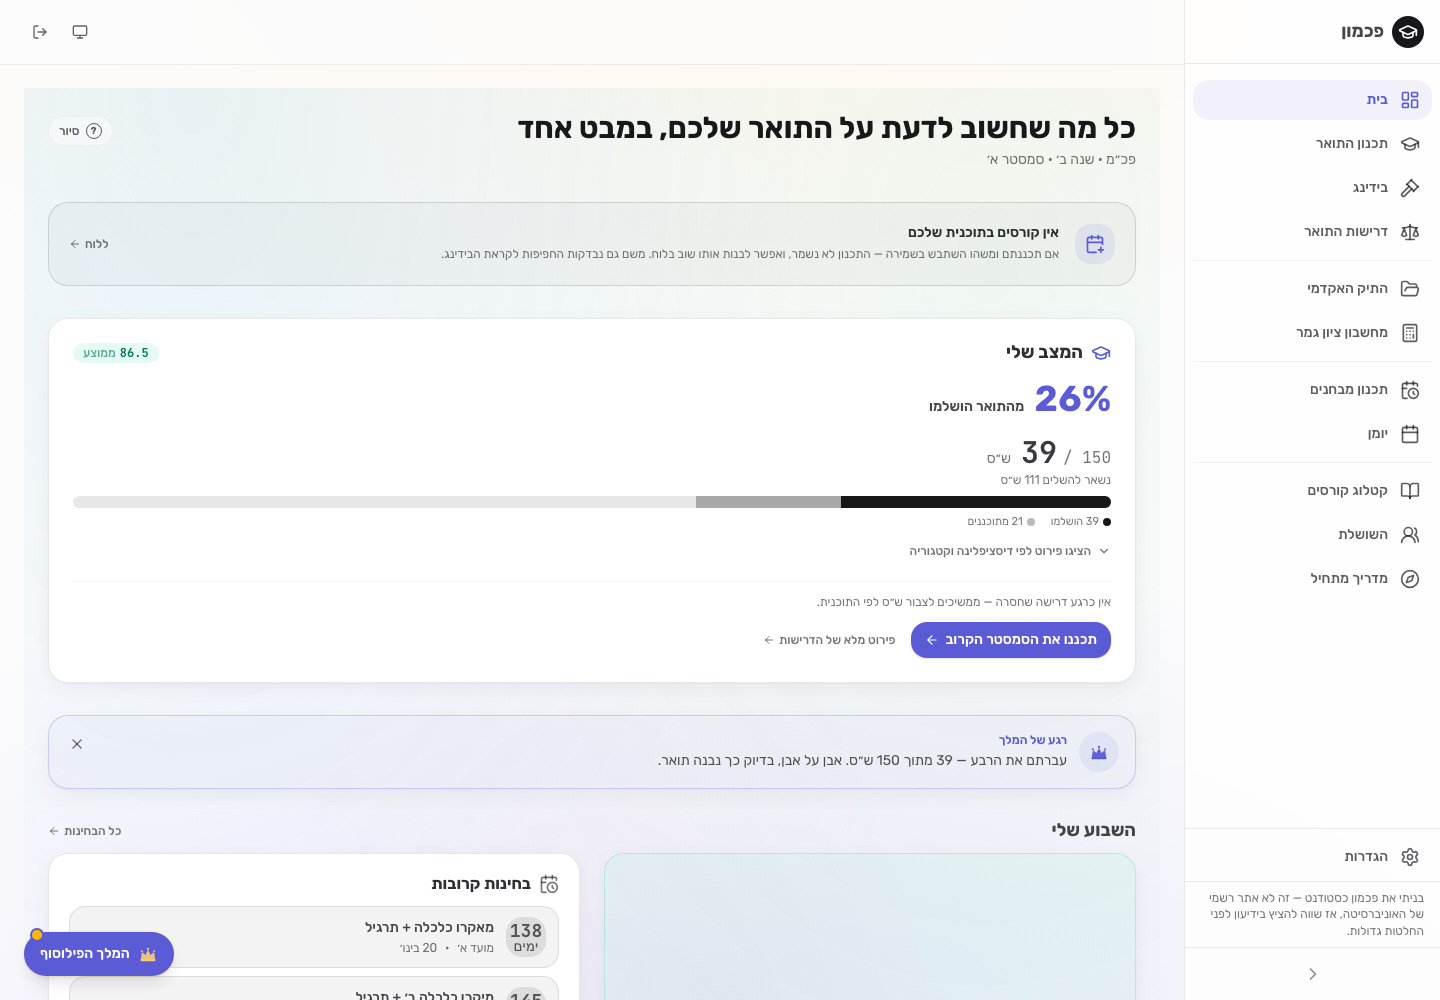
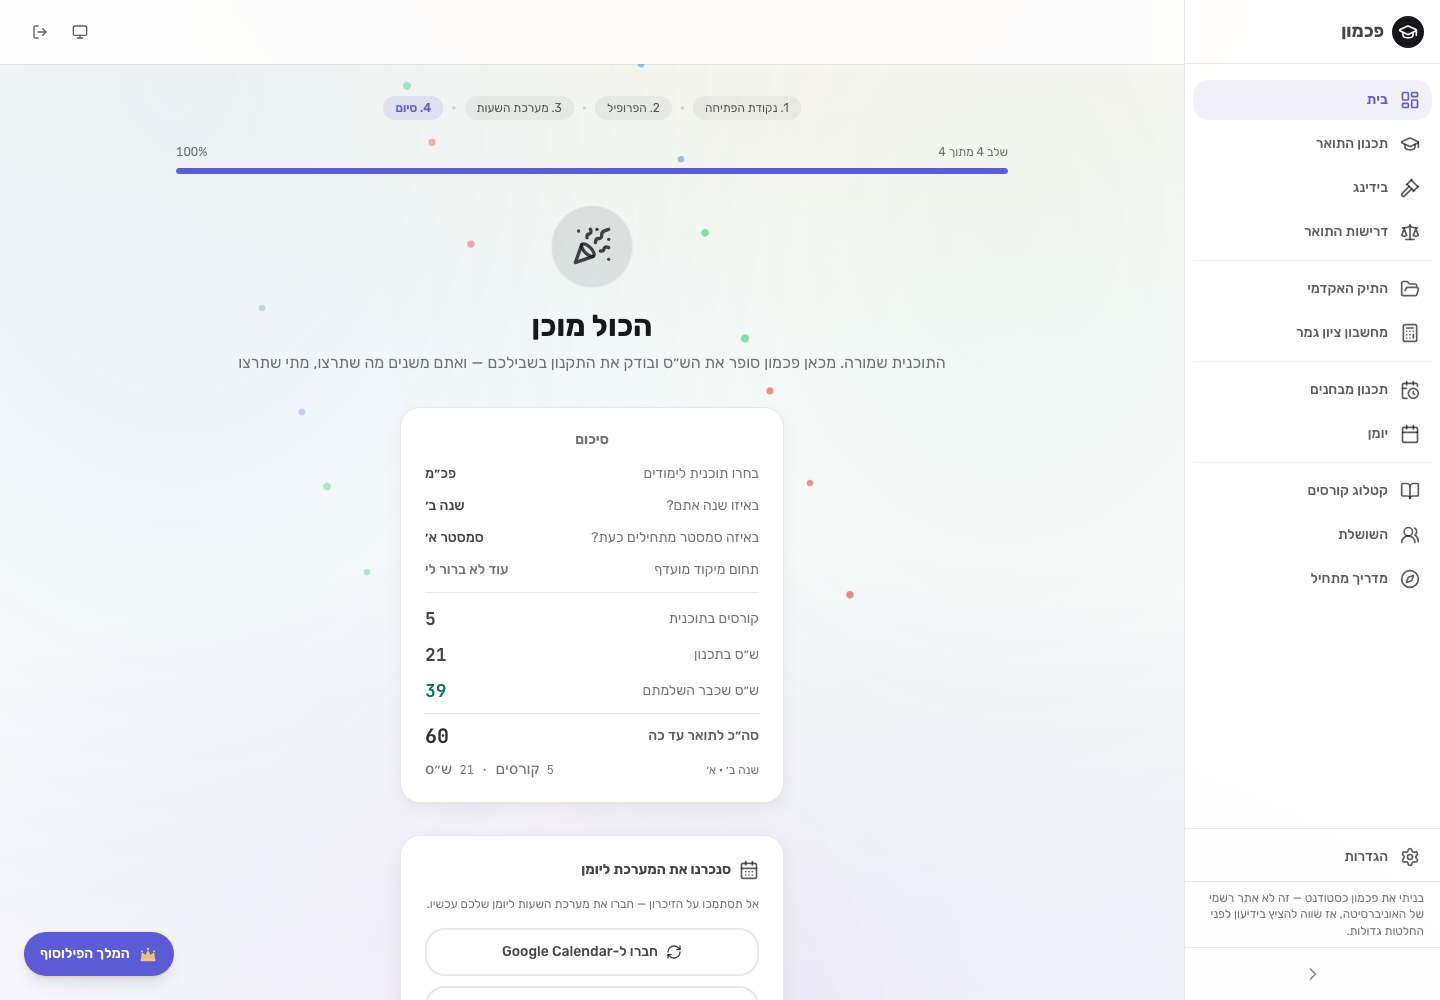
הלוח: L3 נסגר עם הוכחה חיה, וספירה מחדש מהטבלאות
L3 → ✅ עם שני צילומים אחרי הפריסה: הפינאלה מחזיקה 20 שניות בלי שנוגעים,
ודף הבית נוחת נכון (39/150 ש״ס · 21 מתוכננים · בלי כרטיס "לא נשמר").

L1 קיבל את המדידה שחסרה לו: 31 שניות דרך שלושה שלבי טעינה, וכפתור
"המשך בלי לשמור" שנדלק ב-20 שניות על שמירה תקינה שעדיין רצה.

W2 אומת חי בצילום — מסך בחירת התוכנית עם תשובה אחת.

הספירה: הכותרת אמרה 154/114/40. ספרתי את השורות עצמן ויצא 157 — שלוש
שורות W מחלק י״ג לא נכנסו לסך. עכשיו 157 · 116 ירוקים · 41 פתוחים,
עם הפקודה שגוזרת את המספר בכותרת עצמה.

diff --git a/docs/בקרה-סופית-להשקה.md b/docs/בקרה-סופית-להשקה.md
@@ -14,7 +14,14 @@
 שמכוון אותי מכאן.**
 
 
-**המצב:** 154 פריטים · **114 ירוקים ואומתו חי** · 40 פתוחים (20 בבדיקה · 10 ללא אימות חי · 6 אצלך · 4 לא בוצעו).
+**המצב (נספר מחדש 4.9, שורה-שורה מהטבלאות עצמן):** **157 פריטים** ·
+**116 ירוקים ואומתו חי** · **41 פתוחים** — 19 🔬 בבדיקה · 10 🟡 ללא אימות
+חי · 6 ⏸ אצלך · 6 ⬜ לא בוצעו.
+
+> הכותרת אמרה קודם "154 פריטים · 114 ירוקים · 40 פתוחים". ספרתי את השורות
+> עצמן ויצא 157. ההפרש: שלוש שורות `W` מוורקפלו צוות ההייטק נוספו בחלק
+> י״ג ולא נכנסו לסך. **המספר כאן נגזר מהטבלאות, לא מהזיכרון** —
+> `awk -F'|' '/^\| [A-Z]+[0-9]+ \|/' docs/בקרה-סופית-להשקה.md | wc -l`.
 
 ## המקורות שנסרקו, מילה במילה
 
@@ -425,9 +432,9 @@ mode — ו-`db.ts` מרים pool של 5 חיבורים **לכל מכונת Verc
 
 | # | מה קרה לך | סטטוס | הניתוח הראשוני שלי |
 |---|---|---|---|
-| L1 | *"היה מסך טעינה בהתחלה שלא עבד לי איזה 3 פעמים אחרי ההרשמה"* | 🔬 | זהו N5. **בנתיב שנה א׳ שבדקתי הוא הגיע ב-5 שניות** — אז השחזור דורש את הנתיב הכבד: שנה ב׳ עם גיליון ציונים, שבו יש הרבה יותר לשמור. חשד: המסך ממתין על שאילתה שנכשלת בשקט ומנסה שוב |
+| L1 | *"היה מסך טעינה בהתחלה שלא עבד לי איזה 3 פעמים אחרי ההרשמה"* | 🔬 | זהו N5. **הנתיב הכבד נבנה והורץ, ויש מדידה.** השמירה מציגה מסך טעינה **31 שניות** ועוברת בו דרך **שלושה שלבים** — "שומרים את הפרופיל" 8.2s · "שומרים 5 קורסים" 11.0s · "רושמים את הקורסים שכבר עברתם" 11.9s (בהרצה חמה: 14s בסך הכול). ארבע נסיעות שרת טוריות. **ובנוסף:** אחרי 20 שניות נדלק כפתור "המשך בלי לשמור" על שמירה **תקינה** שעדיין רצה — כלומר בהרצה של 31 שניות אריאל ראה הצעה לוותר על שמירה שהצליחה. הצד של הלולאה (הפינאלה שנעקרת) נסגר עם L3. **נשאר:** להחליט מה לעשות עם משך השמירה ועם הכפתור המוקדם |
 | L2 | *"כשבאתי לתכנן את הסמסטרים זה לא קפץ מיידית לתכנון שנתי אלא העביר אותי דרך עוד מסך ביניים"* | ✅ | **שחזרתי, צילמתי, ומצאתי שניים.** (א) `showSummary` לא הבחין בין כניסה מהאשף (שם הסיכום נכון — רק מאשרים) לכניסה מהלוח (שם הוא שגוי — באו לתכנן). נוסף `startInEditor`. **(ב) ואז נכנסתי לאמת וצילמתי חלון חוסם** — "מה שצריך לדעת על פכ״מ" עם `useState(true)`, כלומר נפתח **בכל כניסה**. עכשיו פעם אחת למכשיר, עם כפתור לפתוח שוב. **אומת חי:** "בניית המערכת שלכם" עם טאבי "סמסטר א׳ · 25 ש״ס" ו"סמסטר ב׳" |
-| L3 | *"כשסיימתי ושמרתי זה כתב לי שלא נשמרו קורסים — עד שעשיתי רענן וזה כן הראה ששמר"* | 🔬 | **החמור מהשלושה.** השמירה הצליחה במסד והמסך לא ידע. זה כמעט תמיד `invalidate` חסר אחרי המוטציה. **וזה ההסבר הסביר ביותר לכל דיווחי "התוכנית שלי נמחקה"** — הנתונים היו שם כל הזמן |
+| L3 | *"כשסיימתי ושמרתי זה כתב לי שלא נשמרו קורסים — עד שעשיתי רענן וזה כן הראה ששמר"* | ✅ | **שוחזר, תוקן, ואומת חי 4.9 אחרי הפריסה.** השחזור בנתיב הכבד (גיליון, 11 קורסים, 39 ש״ס), בלי אף לחיצה אחרי "סיום ושמירה": ב-14.2s הופיע "הכול מוכן", וב-**17.8s הפינאלה נעקרה מעצמה** ובמקומה דף הבית שאמר *"אין קורסים בתוכנית שלכם — התכנון לא נשמר"* — בזמן שהמד שלידו, על אותו מסך, הראה **39 ש״ס ו-21 מתוכננים**. `plan.getUserPlan` נטען מחדש **0 פעמים**. השורש: ההערה בקוד מגינה על הפינאלה בכך שהיא לא מבטלת את `getUserPlan` — אבל `getProfile` מפיל אותה באותה דרך, כי דף הבית גוזר ממנו את `isGenuinelyNew`. **התיקון:** ביטול הקאש עבר ל-`leave()` שרץ רק ביציאה מהפינאלה, וכרטיס מצב-הריק מותנה גם ב-`hasAnyCourses`. **ההוכחה:** `video/shots/*-V-L3-finale-holds.png` (הפינאלה מחזיקה 20s בלי לגעת) ו-`*-V-L3-dashboard.png` (דף הבית: "שנה ב׳ · סמסטר א׳", 39/150 ש״ס, 21 מתוכננים, **בלי הכרטיס**). קומיט `76f9084`. השחזור שמור: `video/repro-L1-L3-heavy.mjs` |
 
 ---
 
@@ -441,5 +448,5 @@ mode — ו-`db.ts` מרים pool של 5 חיבורים **לכל מכונת Verc
 | # | הממצא | חומרה | סטטוס | מה לעשות |
 |---|---|---|---|---|
 | W1 | **כישלון שמירה בסוף האשף נועל את הסטודנט בחוץ** — `step-ready` שומר את הפרופיל **לפני** התוכנית, אז אחרי כישלון יש `startYear` ואפס קורסים; `isGenuinelyNew` כבר שקר והאשף לא יחזור לעולם | high | ✅ | תוקן — נוסף מצב-ריק בדף הבית שמחזיר ללוח. **וזה חשוד ראשי ל-L3** |
-| W2 | **מסך בחירת התוכנית שואל שאלה עם תשובה אחת** — `ACTIVE_PROGRAMS = {"PPE"}`, כרטיס משפטים תמיד מושבת עם "בקרוב", **והבחירה לא נשלחת לשרת בכלל** (`data.program` לא בפיילוד ולא בסכמה של `updateProfile`) | medium | ⬜ | **פתוח.** המסך הראשון אחרי ההרשמה — השנייה היקרה ביותר בפאנל |
+| W2 | **מסך בחירת התוכנית שואל שאלה עם תשובה אחת** — `ACTIVE_PROGRAMS = {"PPE"}`, כרטיס משפטים תמיד מושבת עם "בקרוב", **והבחירה לא נשלחת לשרת בכלל** (`data.program` לא בפיילוד ולא בסכמה של `updateProfile`) | medium | ⬜ | **פתוח — ואומת חי 4.9 בצילום.** מסך הפתיחה מציג "בחרו תוכנית לימודים / באיזו תוכנית אתם לומדים?" עם פכ״מ נבחר ומשפטים מושבת "בקרוב". המסך הראשון אחרי ההרשמה |
 | W3 | **"1 קורסים"** בכפתור הסיום ובמסך הסיום | low | ⬜ | סרקתי את כל הקוד: 79 מ-80 המועמדים הם ש״ס שלא מוטה. נשארו 3 אמיתיים (`מטלות`, `חפיפות`, `שעות לימוד`) |
